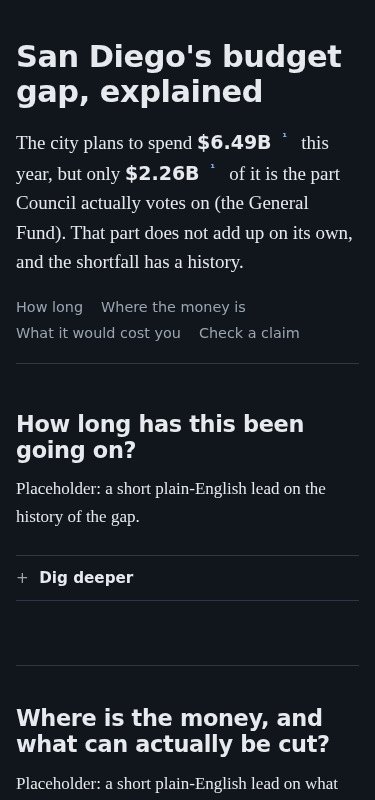
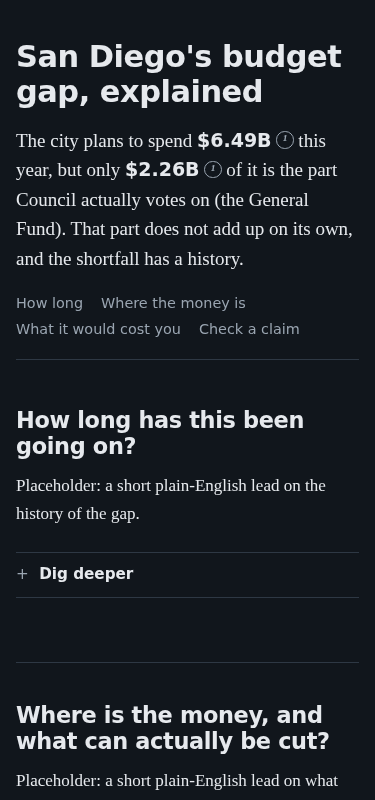
fix: keyboard-reachable popover, visible footnote marker, top-of-page screenshots

diff --git a/site/styles.css b/site/styles.css
@@ -65,12 +65,14 @@ h2 { font-size: clamp(1.4rem, 5vw, 1.75rem); font-weight: 700; }
 
 .figure { font-family: var(--font-ui); font-weight: 650; font-variant-numeric: tabular-nums; white-space: nowrap; }
 .fn {
-  font: 600 0.9rem/1 var(--font-ui);
-  min-width: 24px; min-height: 24px; padding: 0; margin-left: 1px;
-  background: none; border: 0; color: var(--link); cursor: pointer;
-  vertical-align: super; border-radius: 50%;
+  position: relative;
+  width: 1.15em; height: 1.15em; padding: 0; margin-left: 0.3em;
+  font: italic 700 0.8em/1 var(--font-body);
+  background: none; border: 1px solid var(--muted); color: var(--muted);
+  border-radius: 50%; cursor: pointer; vertical-align: 0.1em;
 }
-.fn:hover { background: var(--rule); }
+.fn::after { content: ""; position: absolute; inset: -14px; } /* 44px minimum hit target */
+.fn:hover, .fn[aria-expanded="true"] { background: var(--text); color: var(--bg); border-color: var(--text); }
 .popover {
   position: absolute; z-index: 60; width: min(280px, calc(100vw - 2 * var(--gutter)));
   background: var(--surface); color: var(--text);

diff --git a/site/app.js b/site/app.js
@@ -31,6 +31,7 @@ function closePop(returnFocus) {
   if (!openPop) return;
   openPop.remove();
   openBtn.setAttribute('aria-expanded', 'false');
+  openBtn.removeAttribute('aria-controls');
   if (returnFocus) openBtn.focus();
   openPop = openBtn = null;
 }
@@ -41,6 +42,7 @@ function openPopover(btn, el) {
   pop.className = 'popover';
   pop.id = 'popover';
   pop.setAttribute('role', 'dialog');
+  pop.setAttribute('aria-label', 'Source');
   const doc = document.createElement('p');
   doc.className = 'pop-doc';
   doc.textContent = el.dataset.srcDoc;
@@ -58,7 +60,7 @@ function openPopover(btn, el) {
   a.rel = 'noopener';
   a.textContent = 'Open the document';
   pop.append(a);
-  document.body.append(pop);
+  btn.after(pop);
   const r = btn.getBoundingClientRect();
   const w = pop.offsetWidth;
   const left = Math.max(8, Math.min(r.left + window.scrollX, window.scrollX + document.documentElement.clientWidth - w - 8));
